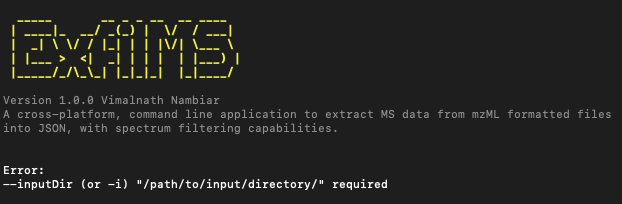
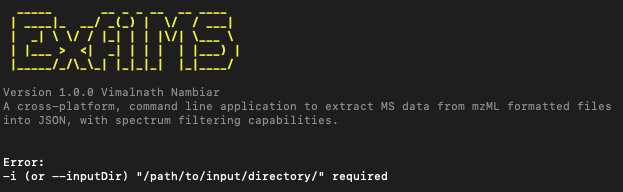
amended guide

Changed region(s): [[0.0, 0.0625, 0.3971, 0.4062], [0.0, 0.4375, 0.9775, 0.6562], [0.0, 0.8125, 0.6415, 0.9375]]

diff --git a/guide/how-to-exfilms-the-ultimate-guide.md b/guide/how-to-exfilms-the-ultimate-guide.md
@@ -23,6 +23,7 @@ Now, let's go through the flags available to be used with exfilMS.
 Displays a help message listing all available flags and their functions.
 
 ```md
+# Show help
 $ exfilms --help
 ```
 <br> **`--version`**
@@ -30,6 +31,7 @@ $ exfilms --help
 Display the version of ExfilMS.
 
 ```md
+# Show version number
 $ exfilms --version
 ```
 
@@ -38,11 +40,30 @@ $ exfilms --version
 Run ExfilMS in interactive mode. In this mode, you will be prompted for input allowing for more control over what data gets sent or how it gets there.
 
 ```md
+# Run interactive mode
 $ exfilms --interactive
 ```
 
-<!-- <br> **`-i`, `--inputDir`** -->
+<br> **`-i`, `--inputDir`**
 
+*_*Required_*
+
+Specify the input directory where mzML data files will be read from for the ExfilMS operation. This flag must always be provided when using `exfilms`. If no value is specified, an error message will be prompted.
+
+```md
+# Specify input directory containing mzML data files
+$ exfilms -i (or --inputDir) "/path/to/input/directory/"
+```
+
+<br> By default, once the input directory has been specified - all files ("*") within the input directory will be read for the ExfilMS operation. However, users can specify a specific list of files to exfiltrate from by including a secondary command line flag `--fileList` a space-separated list of file names.
+
+```md
+# Default: All files in input directory
+$ exfilms -i (or --inputDir) "/path/to/input/directory/" --fileList "*"
+
+# List specific file(s) in input directory
+$ exfilms -i (or --inputDir) "/path/to/input/directory/" --fileList "file1.mzML" "file2.mzML" "file3.mzML"
+```
 
 <!-- URLs used in the markdown document-->
 [nodejs-url]: https://nodejs.org/en/download/
